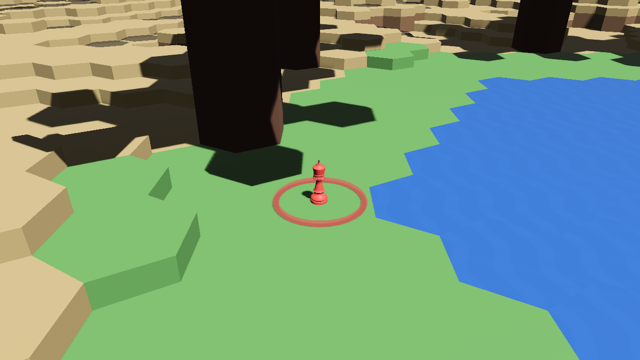
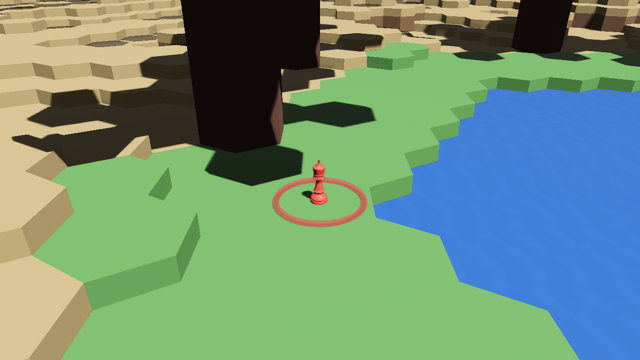
Tighten biome visual review evidence

Changed region(s): [[0.5625, 0.2139, 1.0, 0.5806]]

diff --git a/crates/hex_game/src/walk.rs b/crates/hex_game/src/walk.rs
@@ -3147,7 +3147,7 @@ mod tests {
             IslandWalkCase {
                 script_path: OCEAN_ARCHIPELAGOES_CAMERA_SCRIPT,
                 scenario: "Ocean Archipelagoes",
-                anchors: &["archipelago.home_beach"],
+                anchors: &["archipelago.home_beach", "archipelago.home_ridge"],
                 captures: &[
                     "01-ocean-archipelagoes-complete-map",
                     "02-ocean-archipelagoes-home-channel-character",

diff --git a/CLAUDE.md b/CLAUDE.md
@@ -119,6 +119,10 @@ exactly complete capture set atomically publishes a completed index beside the P
 index records run/script/scenario provenance and starts every frame as `UNREVIEWED` with
 explicit PASS/FAIL and notes fields. Inspect and classify every frame before selecting hero
 images or calling the pack reviewed. The exit code proves capture mechanics, not pixel quality.
+Close corrective visual work with two distinct passes: inspect every frame at full resolution,
+then scan a complete contact sheet and have a fresh-eyes reviewer challenge the PASS notes.
+Do not reuse one generic note across unrelated frames unless that exact criterion is visibly
+proved in every one; a technically complete but obstructed or poorly framed image is a FAIL.
 Emissive, translucent, or animated geometry additionally requires a named native-camera
 motion pass; static captures cannot clear flicker.
 `walks/camera_routes.ron` is the seed-exact route authority for every selectable Map

diff --git a/docs/development/map-testing.md b/docs/development/map-testing.md
@@ -115,6 +115,13 @@ with explicit `PASS` or `FAIL` and fill in its notes before curating a smaller h
 the candidate review-ready. Looking only at the images selected for a summary is not a review of
 the pack.
 
+Corrective packs require a second, fresh-eyes evidence pass after the primary full-resolution
+inspection. Scan a contact sheet containing the complete capture set to expose inconsistent
+framing or systematic artifacts, then challenge each PASS note against the pixels it actually
+shows. Repeated generic notes are not acceptable when a frame is occluded, dominated by a
+near-camera prop, or does not visibly support that criterion. Recapture such a frame or mark it
+FAIL; capture-count completeness never upgrades weak evidence.
+
 Authored and composed maps add two required stress checks:
 
 - Inspect a character-height view across every landmark/biome seam and entrance apron, with
